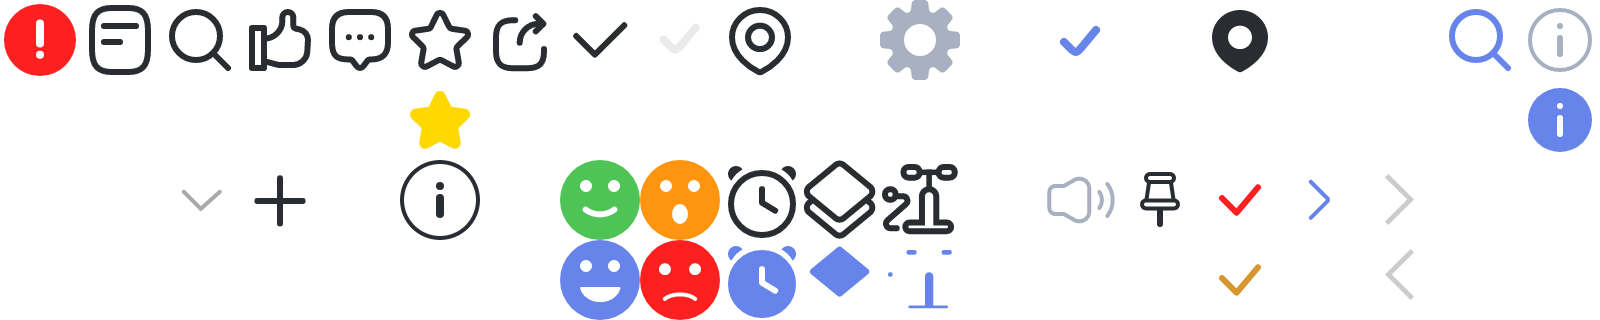
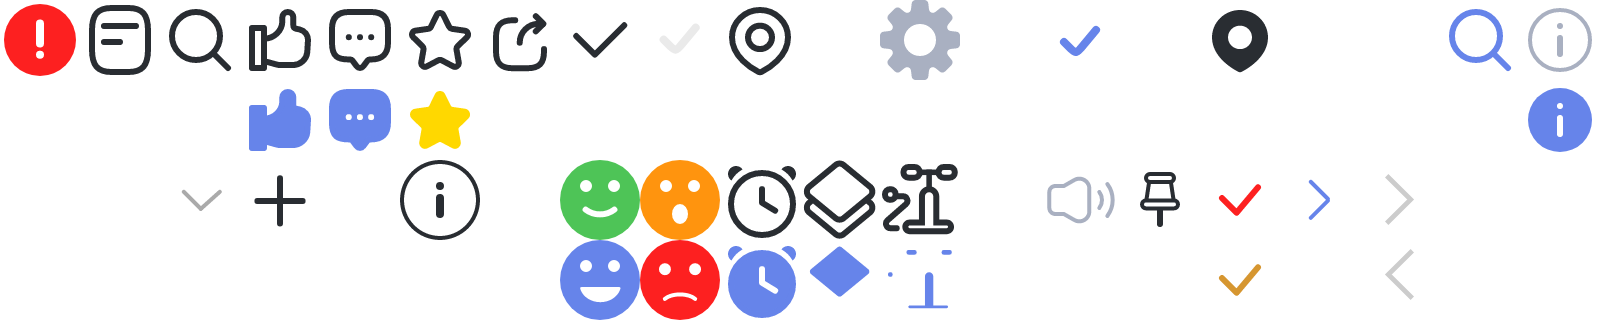
UI-SJN-04-002U 수정 - 좋아요 활성화 아이콘 추가

Changed region(s): [[0.1562, 0.2812, 0.25, 0.4688]]

diff --git a/public/styles/globals.css b/public/styles/globals.css
@@ -988,8 +988,10 @@ figure .label.red { background-color: rgba(253, 32, 32, 0.9);}
 .header-icons button::after { content: ''; position: absolute; top: 0; width: 2rem; height: 2rem; background: url(../image/common/split_40.png) no-repeat 0 0/40rem 8rem;}
 .header-icons button.good { padding-left: 2.2rem;}
 .header-icons button.good::after { left: 0; background-position: -6rem 0;}
+.header-icons button.good.active::after { left: 0; background-position-y: -2rem;}
 .header-icons button.comment { margin-left: 0.5rem; padding-left: 2.2rem;}
 .header-icons button.comment::after { left: 0; background-position: -8rem 0;}
+.header-icons button.comment.active::after { left: 0; background-position-y: -2rem;}
 .header-icons button.favorite { width: 2rem; text-indent: -9999rem;}
 .header-icons button.favorite::after { right: 0; background-position: -10rem 0;}
 .header-icons button.favorite.active::after { background-position-y: -2rem;}

diff --git a/html/info/UI-SJN-03-001U.html b/html/info/UI-SJN-03-001U.html
@@ -1,0 +1,29 @@
+<!DOCTYPE HTML>
+<html lang="ko">
+<head>
+	<meta charset="utf-8" />
+	<script src="../include/head.js"></script>
+</head>
+
+<body>
+<div id="root">
+	<div class="container">
+		<!-- 공통: 서브 헤더 -->
+		<script src="../include/header_sub.js"></script>
+		<!-- //공통: 서브 헤더 -->
+
+		<!-- 본문 -->
+		<main class="contents info"> <!-- [생활정보 Class] info-->
+			<h2 class="visible"><div class="headerClone">생활정보</div></h2> <!-- [헤더에 넣어줄 제목] -->
+			
+			<div class="infoWrap">
+				<div>
+					1111111111111
+				</div>
+			</div>
+		</main>
+		<!-- //본문 -->
+	</div>
+</div>
+</body>
+</html>

diff --git a/html/info/UI-SJN-04-002U.html b/html/info/UI-SJN-04-002U.html
@@ -159,8 +159,8 @@
 							</a>
 							<div class="header-icons">
 								<div>
-									<button type="button" class="good" title="추천 수">0</button>
-									<button type="button" class="comment" title="댓글 수">1,234</button>
+									<button type="button" class="good active" title="추천 수">1</button> <!-- 활성화 시 active 추가 -->
+									<button type="button" class="comment active" title="댓글 수">1,234</button> <!-- 활성화 시 active 추가 -->
 								</div>
 								<div>
 									<button type="button" class="favorite">즐겨찾기</button>

diff --git a/README.md b/README.md
@@ -5,6 +5,7 @@
 
 ### 02-21
 - layer-select 등록
+- UI-SJN-04-002U 수정 - 좋아요 활성화 아이콘 추가
 - UI-SJN-04-004U 수정 - 이용료 유료/무료 라디오 추가
 - UI-SJN-04-008U 수정 - 기간 내용에 버튼태그 추가
 
